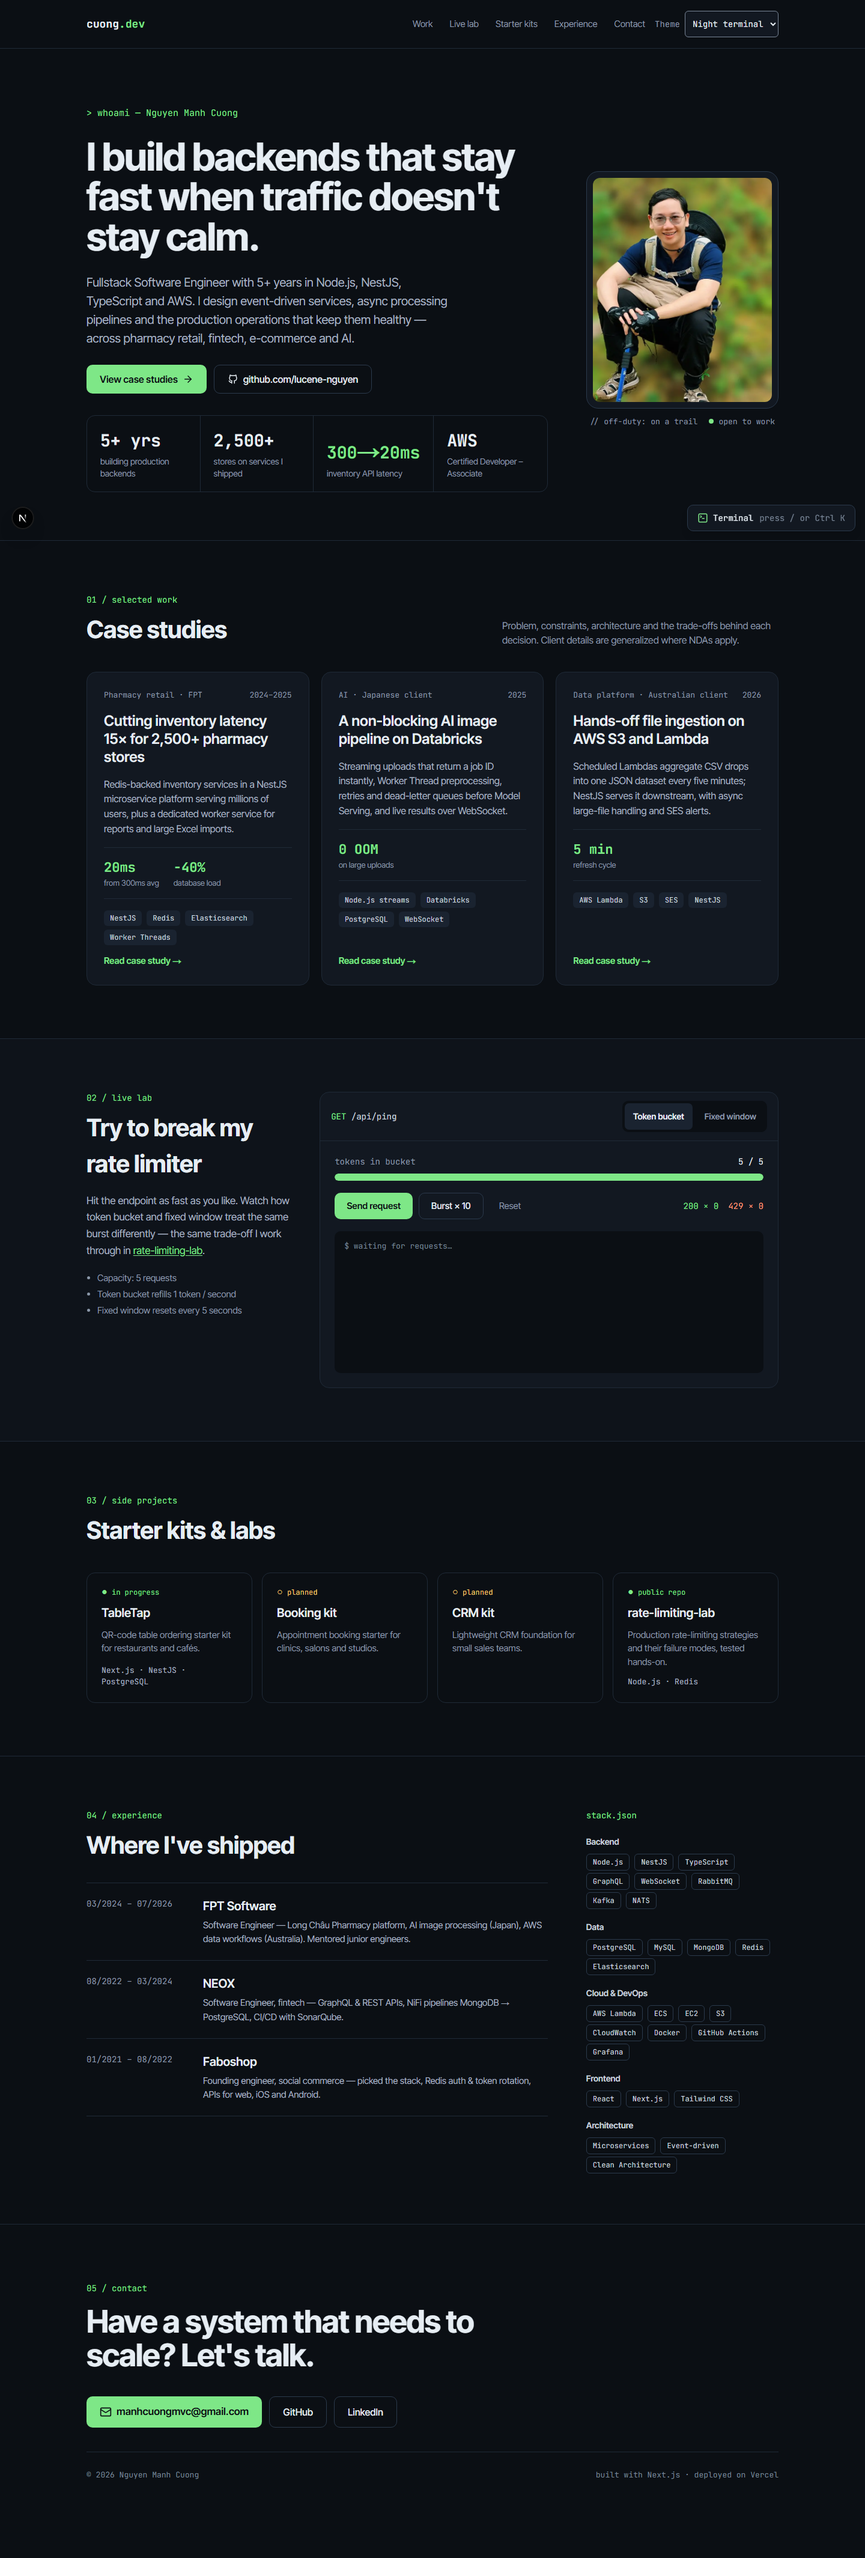
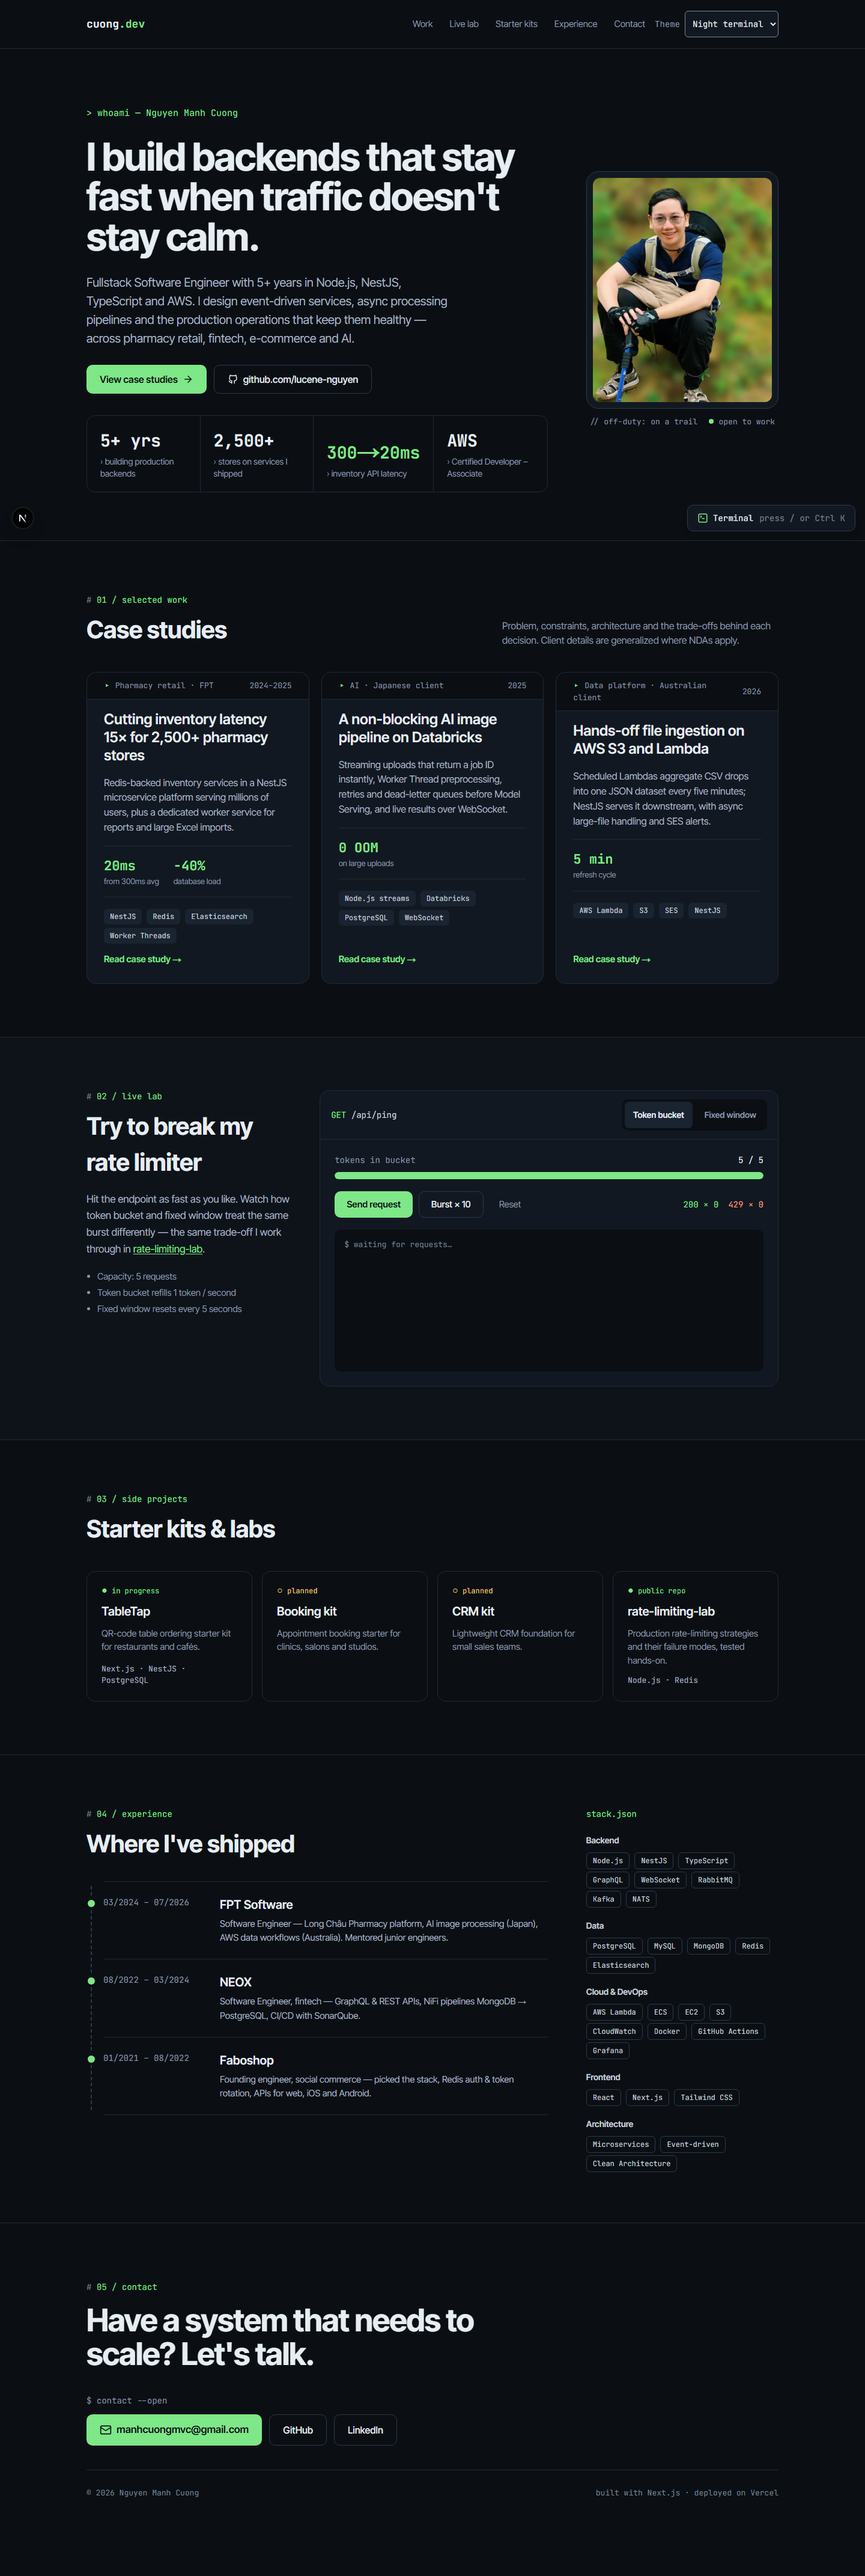
feat(ui): night terminal accents - window title bars, shell eyebrows, git-log experience, contact prompt

diff --git a/themes/night-terminal/night-terminal.css b/themes/night-terminal/night-terminal.css
@@ -1,0 +1,70 @@
+/* Night terminal accents (design-system/portfolio-v3/pages/night-terminal.md › Layout).
+   Scoped to the theme; decorative glyphs have empty alt text. */
+[data-theme="night-terminal"] [data-part="eyebrow"]::before {
+  content: "# " / "";
+  color: var(--text-subtle);
+}
+
+/* Case studies: terminal windows with a title bar. */
+[data-theme="night-terminal"] [data-part="case-meta"] {
+  /* Edge to edge: negative margin = the card's p-7 (1.75rem) padding. */
+  margin: -1.75rem -1.75rem 0;
+  padding: 12px 1.75rem;
+  border-bottom: 1px solid var(--border);
+  border-radius: 16px 16px 0 0;
+  background: var(--bg);
+}
+[data-theme="night-terminal"] [data-part="case-meta"] > span:first-child::before {
+  content: "▸ " / "";
+  color: var(--accent);
+}
+
+/* Hero stats: command output (prompt on the label, so wide values never wrap). */
+[data-theme="night-terminal"] [data-part="stat"] dt::before {
+  content: "› " / "";
+  color: var(--text-subtle);
+}
+
+/* Experience: git log graph. */
+[data-theme="night-terminal"] [data-part="roles"] {
+  position: relative;
+  padding-left: 28px;
+}
+[data-theme="night-terminal"] [data-part="roles"]::before {
+  content: "";
+  position: absolute;
+  top: 8px;
+  bottom: 8px;
+  left: 7px;
+  border-left: 2px dashed var(--border-strong);
+}
+[data-theme="night-terminal"] [data-part="role"] {
+  position: relative;
+}
+[data-theme="night-terminal"] [data-part="role"]::before {
+  content: "";
+  position: absolute;
+  top: 30px;
+  left: -26px;
+  width: 12px;
+  height: 12px;
+  border-radius: 50%;
+  background: var(--accent);
+  box-shadow: 0 0 0 4px var(--bg);
+}
+
+/* Contact: shell prompt above the actions. */
+[data-theme="night-terminal"] [data-part="contact-actions"] {
+  position: relative;
+  padding-top: 32px;
+}
+[data-theme="night-terminal"] [data-part="contact-actions"]::before {
+  content: "$ contact --open" / "";
+  position: absolute;
+  top: 0;
+  left: 0;
+  font:
+    14px var(--font-jetbrains-mono),
+    monospace;
+  color: var(--text-muted);
+}

diff --git a/e2e/night-terminal.spec.ts b/e2e/night-terminal.spec.ts
@@ -128,3 +128,19 @@ test("open command line has no axe violations", async ({ page }) => {
   const { violations } = await new AxeBuilder({ page }).analyze();
   expect(violations.map((v) => v.id)).toEqual([]);
 });
+
+test("shared sections carry terminal accents", async ({ page }) => {
+  await page.goto("/");
+  const pseudo = (sel: string, prop: string) =>
+    page
+      .locator(sel)
+      .first()
+      .evaluate((el, p) => getComputedStyle(el, "::before").getPropertyValue(p), prop);
+  expect(await pseudo('#work [data-part="eyebrow"]', "content")).toContain("#");
+  await expect(page.locator('[data-part="case-meta"]').first()).toHaveCSS(
+    "border-bottom-style",
+    "solid",
+  );
+  expect(await pseudo('[data-part="roles"]', "border-left-style")).toBe("dashed");
+  expect(await pseudo('[data-part="contact-actions"]', "content")).toContain("$ contact");
+});

diff --git a/e2e/checklist.spec.ts b/e2e/checklist.spec.ts
@@ -2,7 +2,7 @@ import AxeBuilder from "@axe-core/playwright";
 import { expect, test, type Page } from "@playwright/test";
 
 // ui-ux-pro-max pre-delivery checklist, the parts that can be measured (UI round 1, restyled themes).
-const THEMES = ["blueprint", "pixel", "cyberpunk", "editorial"];
+const THEMES = ["blueprint", "pixel", "cyberpunk", "editorial", "night-terminal"];
 
 const overflow = (page: Page) =>
   page.evaluate(() => document.documentElement.scrollWidth - document.documentElement.clientWidth);

diff --git a/app/layout.tsx b/app/layout.tsx
@@ -15,6 +15,7 @@ import "@/themes/blueprint/blueprint.css";
 import "@/themes/cyberpunk/cyberpunk.css";
 import "@/themes/editorial/editorial.css";
 import "@/themes/neo-brutalism/neo.css";
+import "@/themes/night-terminal/night-terminal.css";
 import "@/themes/pixel/pixel.css";
 import "@/themes/swiss-minimal/swiss.css";
 

diff --git a/design-system/portfolio-v3/pages/night-terminal.md b/design-system/portfolio-v3/pages/night-terminal.md
@@ -55,3 +55,19 @@
 - All text pairs ≥ 4.5:1 (enforced by `themes/registry.test.ts`).
 - `:focus-visible` = 2px accent outline, 2px offset, on every interactive element.
 - No animation beyond 200ms fades; everything off under `prefers-reduced-motion`.
+
+## Layout
+> ui-ux-pro-max (UI round 1): `"developer portfolio" --domain landing`, `"terminal monospace readability" --domain ux`.
+
+**Section order:** Hero → Case studies → Live lab → Starter kits → Experience + stack → Contact (the approved mockup's order).
+- Verified: landing **Portfolio Grid** — "Hero (Name/Role) > Project Grid > About > Contact"; contact CTA in the footer.
+- Verified (ux): formatted numbers, body line-height 1.5–1.75, high-contrast text.
+- Rejected: masonry grid and hover-only card CTAs (the mockup's equal cards with an explicit "Read case study" link stay).
+- This is the default theme from the owner's approved mockup: changes are terminal-language accents, not a new layout.
+
+**How the shared sections look**
+- Eyebrows → shell comments: `# 01 / selected work`.
+- Case study cards → **terminal windows**: the meta line becomes a title bar (`bg`, rule below, `▸` prompt), body unchanged.
+- Hero stats → command output: labels prefixed with `›` (values stay on one line).
+- Experience → **git log**: a dashed graph line down the left with an accent commit dot per role.
+- Contact → **prompt**: actions under a `$ contact --open` line.

diff --git a/docs/ui-round-1.md b/docs/ui-round-1.md
@@ -13,7 +13,7 @@ Per theme (item 2): ui-ux-pro-max `--domain landing` + `--domain ux` → "## Lay
 | 2 pixel | done | `fix/ui-pixel` |
 | 2 cyberpunk | done | `fix/ui-cyberpunk` |
 | 2 editorial | done | `fix/ui-editorial` |
-| 2 night-terminal | todo | `fix/ui-night-terminal` |
+| 2 night-terminal | done | `fix/ui-night-terminal` |
 | 2 dashboard | todo | `fix/ui-dashboard` |
 | 2 ide | todo | `fix/ui-ide` |
 | 2 docs | todo | `fix/ui-docs` |
